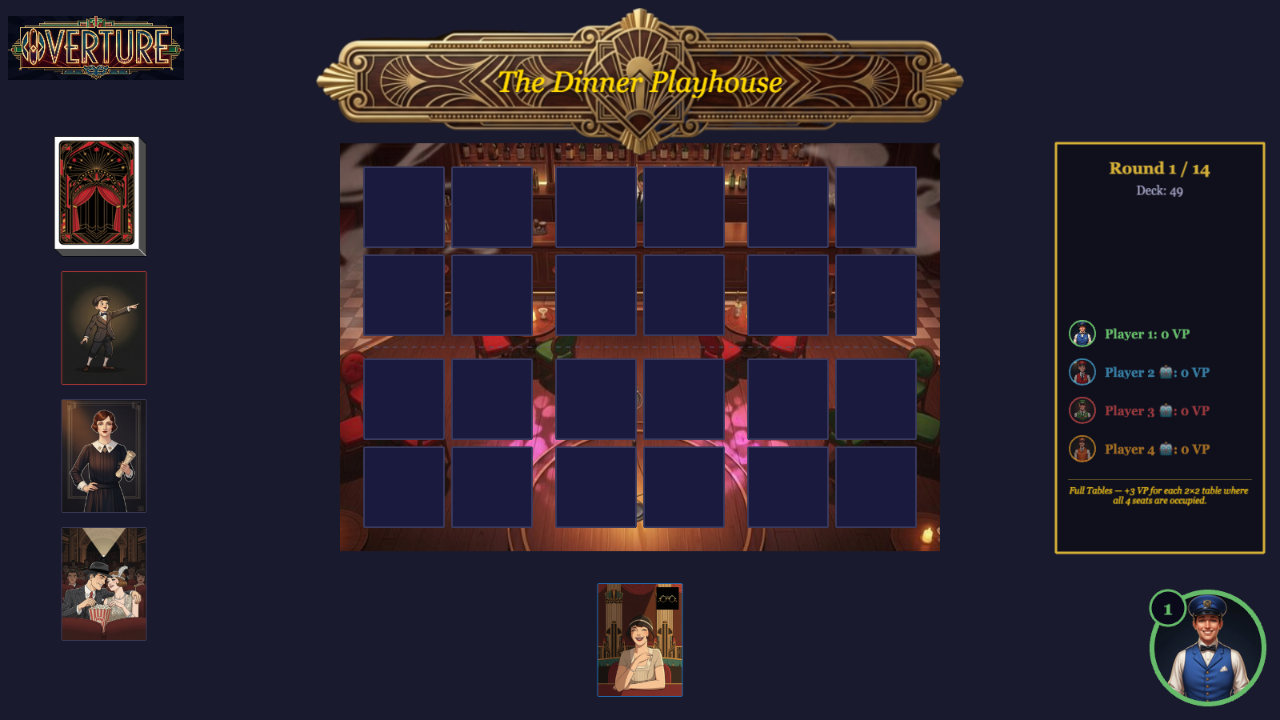
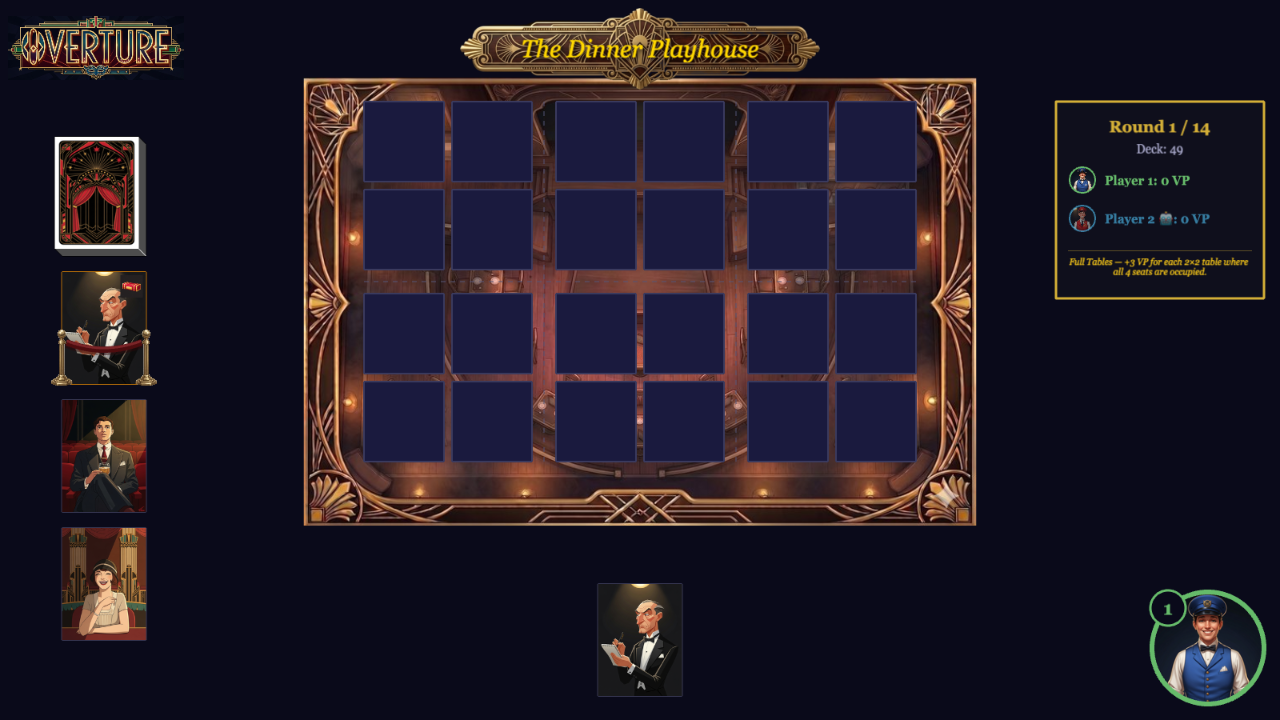
feat: add gridMarginTop and gridMarginBottom for flexible theater layout spacing, update rendering and types

diff --git a/scripts/capture-missing-theater-screenshots.js b/scripts/capture-missing-theater-screenshots.js
@@ -1,0 +1,144 @@
+#!/usr/bin/env -S deno run -A
+// @ts-check
+
+import { chromium } from "npm:playwright";
+import { existsSync } from "node:fs";
+import { join } from "node:path";
+import { LayoutOrder } from "../src/types.js";
+
+const VIEWPORT = { width: 1280, height: 720 };
+const OUTPUT_DIR = join("docs", "images");
+const PORT_START = 8080;
+const PORT_END = 8090;
+
+/**
+ * Theater screenshot filenames keyed by layout id.
+ * Example: grand-empress -> docs/images/theater-grand-empress.png
+ */
+const screenshotTargets = LayoutOrder.map((layoutId) => ({
+    layoutId,
+    fileName: `theater-${layoutId}.png`,
+    outPath: join(OUTPUT_DIR, `theater-${layoutId}.png`),
+}));
+
+const missingTargets = screenshotTargets.filter((t) => !existsSync(t.outPath));
+
+console.log("=== Capture missing theater screenshots ===");
+console.log(`Output dir: ${OUTPUT_DIR}`);
+console.log(`Total layouts: ${screenshotTargets.length}`);
+console.log(`Missing screenshots: ${missingTargets.length}`);
+
+if (missingTargets.length === 0) {
+    console.log("Nothing missing. Exiting.");
+    Deno.exit(0);
+}
+
+console.log("Missing:", missingTargets.map((t) => t.fileName).join(", "));
+
+// Start Vite dev server
+const devServer = new Deno.Command("deno", {
+    args: ["task", "dev"],
+    stdout: "piped",
+    stderr: "piped",
+}).spawn();
+
+let browser;
+
+try {
+    const baseUrl = await waitForServerOnPortRange(PORT_START, PORT_END, 30_000);
+    console.log(`Dev server detected at ${baseUrl}`);
+
+    browser = await chromium.launch({ headless: true });
+    const page = await browser.newPage({ viewport: VIEWPORT });
+
+    await page.goto(baseUrl, { waitUntil: "networkidle" });
+
+    for (const target of missingTargets) {
+        await page.evaluate((layoutId) => {
+            const game = window.__PHASER_GAME__;
+            if (!game) {
+                throw new Error("window.__PHASER_GAME__ not found");
+            }
+            game.scene.start("GameScene", {
+                playerCount: 2,
+                layoutId,
+                // Exactly one human => pass screen is auto-skipped for human turns.
+                aiConfig: [null, "easy"],
+                playerColorMap: [0, 1],
+            });
+        }, target.layoutId);
+
+        await page.waitForFunction(() => {
+            const game = window.__PHASER_GAME__;
+            if (!game) return false;
+            const scene = game.scene.getScene("GameScene");
+            return !!scene
+                && scene.scene.isActive()
+                && !!scene.theaterGrid
+                && scene.turnPhase === "play"
+                && !scene.passOverlay;
+        }, { timeout: 15_000 });
+
+        // Allow an extra beat for textures/UI to settle
+        await page.waitForTimeout(350);
+
+        await page.screenshot({
+            path: target.outPath,
+            type: "png",
+            fullPage: false,
+        });
+
+        console.log(`Wrote ${target.outPath}`);
+    }
+
+    console.log("Done.");
+} catch (err) {
+    console.error("Capture failed:", err);
+    console.error("If Playwright browser is missing, run: npx playwright install");
+    Deno.exitCode = 1;
+} finally {
+    try {
+        await browser?.close();
+    } catch {
+        // ignore
+    }
+
+    try {
+        devServer.kill("SIGTERM");
+    } catch {
+        // ignore
+    }
+
+    // Do not await stdout/stderr drains here: Vite can keep streams open briefly
+    // and block script shutdown after successful capture.
+}
+
+/**
+ * Wait until HTTP server responds on one of the ports in range.
+ * @param {number} portStart
+ * @param {number} portEnd
+ * @param {number} timeoutMs
+ * @returns {Promise<string>} Base URL (e.g. http://127.0.0.1:8081)
+ */
+async function waitForServerOnPortRange(portStart, portEnd, timeoutMs) {
+    const start = Date.now();
+
+    while (Date.now() - start < timeoutMs) {
+        for (let port = portStart; port <= portEnd; port++) {
+            const url = `http://127.0.0.1:${port}`;
+            try {
+                const res = await fetch(url);
+                if (res.ok || res.status === 404) {
+                    return url;
+                }
+            } catch {
+                // not listening on this port yet
+            }
+        }
+        await new Promise((r) => setTimeout(r, 300));
+    }
+
+    throw new Error(
+        `Timed out waiting for dev server on ports ${portStart}-${portEnd}`,
+    );
+}
